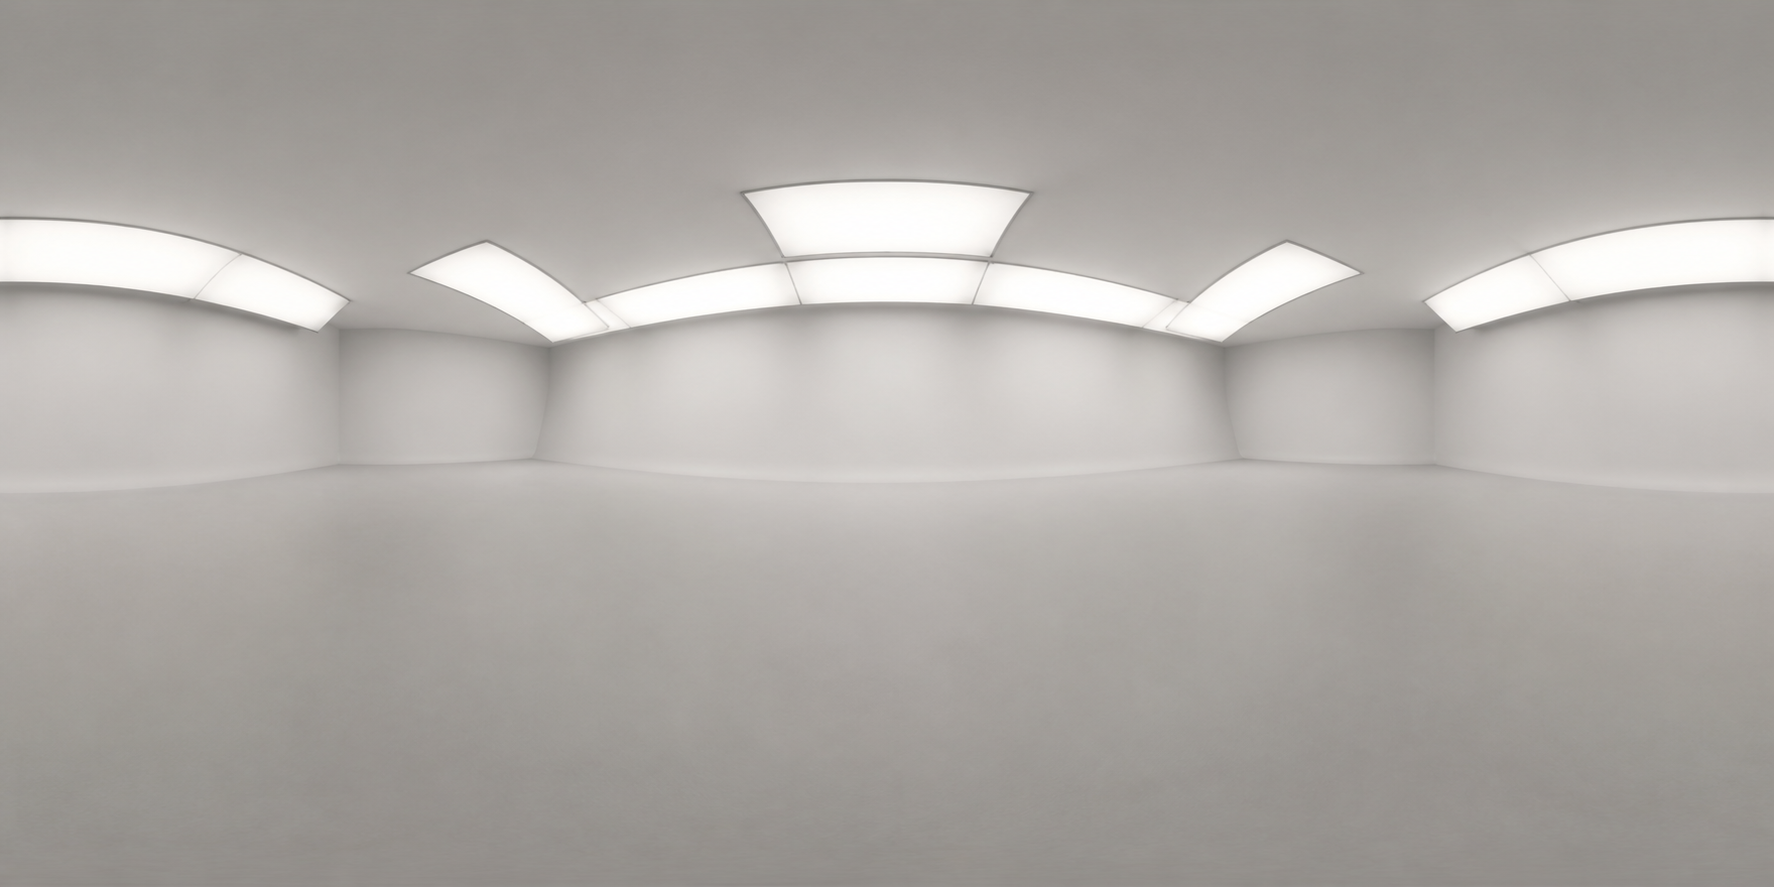
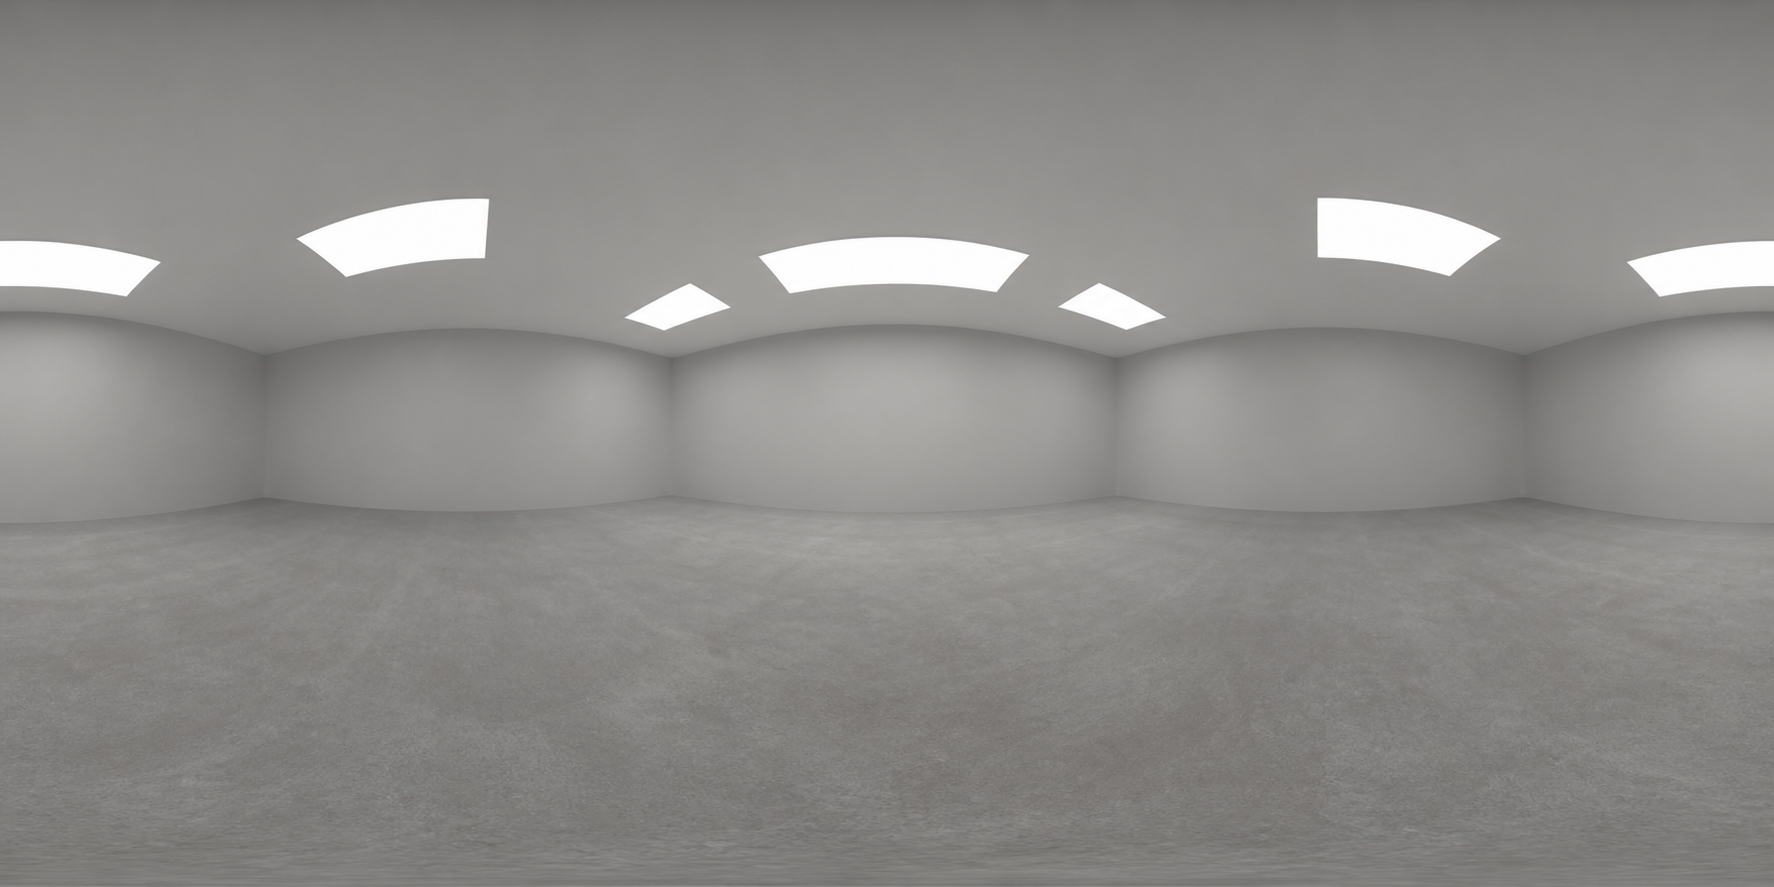
feat: project the studio panorama on a hemisphere dome in model previews
- reuse the drama scene dome pipeline (backdrop geometry, projected HDRI
  material, equirect-to-cubemap reprojection) through the blocking3d facade
  so the editor and thumbnails show the panorama as a visible half-sphere
  room around the model
- regenerate the bundled panorama as an enclosed indoor studio room via the
  scene-panorama pipeline; thumbnail cache key moves to v13

diff --git a/client/src/pages/models/modelLibrary3d/studioBackdrop.ts b/client/src/pages/models/modelLibrary3d/studioBackdrop.ts
@@ -1,0 +1,63 @@
+import * as pc from "playcanvas";
+
+import {
+  configureEnvironmentTexture,
+  createBackdropGeometry,
+  createProjectedHdriMaterial,
+  createVisibleHdriCubemap,
+  loadAsset,
+} from "@/pages/drama/comicDrama/components/blocking3d";
+
+/**
+ * 模型预览的摄影棚穹顶：与漫剧 3D 场景的 HDRI 背景穹顶同一套投射方案——
+ * 等距柱状全景图重投影成 cubemap，贴到半圆球内壁上（几何/材质复用
+ * blocking3d 的穹顶模块）。环境光仍由 studioLighting 的 env atlas 承担，
+ * 穹顶只负责"身处摄影棚房间"的可视背景。
+ */
+
+/** 场景全景图管线产出的室内工作室全景（编辑器穹顶与环境共用）。 */
+export const STUDIO_PANORAMA_URL = "/models/env/studio_panorama.png";
+
+export interface StudioBackdropHandle {
+  destroy: () => void;
+}
+
+export async function attachStudioBackdrop(
+  app: pc.AppBase,
+  options: { radius?: number; centerHeightRatio?: number; panoramaHorizonV?: number } = {},
+): Promise<StudioBackdropHandle | null> {
+  try {
+    const asset = await loadAsset(app, STUDIO_PANORAMA_URL, "texture");
+    const texture = asset.resource as pc.Texture;
+    configureEnvironmentTexture(texture, app);
+    const cubemap = createVisibleHdriCubemap(app, texture);
+    // 与漫剧一致：几何按 0.5 单位半径构建，实体再用 domeRadius 缩放。
+    const radius = options.radius ?? 30;
+    const centerHeight = radius * (options.centerHeightRatio ?? 0.12);
+    const mesh = pc.Mesh.fromGeometry(
+      app.graphicsDevice,
+      createBackdropGeometry(centerHeight, radius),
+    );
+    const material = createProjectedHdriMaterial(cubemap, {
+      projectionCenterHeight: centerHeight,
+      panoramaHorizonV: options.panoramaHorizonV ?? 0.56,
+    });
+    const meshInstance = new pc.MeshInstance(mesh, material);
+    const dome = new pc.Entity("studio-panorama-dome");
+    dome.addComponent("render", { meshInstances: [meshInstance], layers: [pc.LAYERID_WORLD] });
+    dome.setLocalScale(radius, radius, radius);
+    dome.setPosition(0, 0, 0);
+    app.root.addChild(dome);
+    return {
+      destroy() {
+        dome.destroy();
+        mesh.destroy();
+        material.destroy();
+        cubemap.destroy();
+        asset.unload();
+      },
+    };
+  } catch {
+    return null;
+  }
+}

diff --git a/client/src/pages/models/modelLibrary3d/modelViewerApp.ts b/client/src/pages/models/modelLibrary3d/modelViewerApp.ts
@@ -2,6 +2,7 @@ import * as pc from "playcanvas";
 
 import type { InspectorTransformValue } from "@/pages/drama/comicDrama/components/editor3d";
 import { applyModelMaterials, type ModelMaterialMap } from "./modelMaterials";
+import { attachStudioBackdrop } from "./studioBackdrop";
 import { setupStudioLighting, upgradeStudioEnvironment } from "./studioLighting";
 import {
   createBlocking3dTransformGizmo,
@@ -149,10 +150,12 @@ export async function createModelViewer(options: ModelViewerOptions): Promise<Mo
   // 任何提前销毁路径都要跳过/执行环境清理，避免碰到已销毁的 scene。
   let studioEnvDisposed = false;
   let studioEnvCleanup: (() => void) | null = null;
+  let studioBackdropCleanup: (() => void) | null = null;
   const takeStudioEnvCleanup = (): (() => void) | null => studioEnvCleanup;
   const disposeStudioEnv = () => {
     studioEnvDisposed = true;
     takeStudioEnvCleanup()?.();
+    studioBackdropCleanup?.();
   };
   void upgradeStudioEnvironment(app).then((cleanup) => {
     if (studioEnvDisposed) {
@@ -160,6 +163,15 @@ export async function createModelViewer(options: ModelViewerOptions): Promise<Mo
       return;
     }
     studioEnvCleanup = cleanup;
+  });
+  // 半圆球穹顶：与漫剧场景一致，把摄影棚全景投射在半球内壁作可视背景。
+  void attachStudioBackdrop(app, { radius: 30 }).then((handle) => {
+    if (!handle) return;
+    if (studioEnvDisposed) {
+      handle.destroy();
+      return;
+    }
+    studioBackdropCleanup = handle.destroy;
   });
 
   const ground = createPlane(

diff --git a/client/src/pages/models/modelLibrary3d/thumbnailStudio.ts b/client/src/pages/models/modelLibrary3d/thumbnailStudio.ts
@@ -4,6 +4,7 @@ import type { ModelLibraryEntry } from "@/config/modelLibrary";
 import { clamp, createMaterial, createPlane, DEFAULT_FOV, loadAsset, type ContainerResource } from "@/pages/drama/comicDrama/components/blocking3d";
 import { applyModelMaterials } from "./modelMaterials";
 import { computeSourceBounds } from "./modelViewerApp";
+import { attachStudioBackdrop } from "./studioBackdrop";
 import { setupStudioLighting, upgradeStudioEnvironment } from "./studioLighting";
 
 /**
@@ -15,7 +16,7 @@ import { setupStudioLighting, upgradeStudioEnvironment } from "./studioLighting"
 // 缩略图按卡片小图输出 JPEG：数百模型的缓存体量必须压进 localStorage 配额。
 const THUMBNAIL_SIZE = { width: 288, height: 216 } as const;
 const JPEG_QUALITY = 0.75;
-const STORAGE_KEY = "model-library:thumbnails:v12";
+const STORAGE_KEY = "model-library:thumbnails:v13";
 const IDLE_DESTROY_MS = 8000;
 
 type Listener = () => void;
@@ -154,6 +155,7 @@ async function createThumbnailStudio(): Promise<{
   setupStudioLighting(app, cameraEntity.camera!);
   // 缩略图必须等真 HDR 环境就绪再出图，否则卡片外观和编辑器不一致。
   await upgradeStudioEnvironment(app);
+  const backdrop = await attachStudioBackdrop(app, { radius: 30 });
 
   const ground = createPlane(
     app,
@@ -239,6 +241,7 @@ async function createThumbnailStudio(): Promise<{
     destroy() {
       if (destroyed) return;
       destroyed = true;
+      backdrop?.destroy();
       app.destroy();
     },
   }

diff --git a/client/src/pages/models/modelLibrary3d/studioLighting.ts b/client/src/pages/models/modelLibrary3d/studioLighting.ts
@@ -2,6 +2,8 @@ import * as pc from "playcanvas";
 
 import { loadAsset } from "@/pages/drama/comicDrama/components/blocking3d";
 
+import { STUDIO_PANORAMA_URL } from "./studioBackdrop";
+
 /**
  * 模型库的棚拍布光：主光 + 补光 + 轮廓光 + 环境反射（真实 HDR，程序化兜底）
  * + ACES 色调映射。编辑器与缩略图工坊共用，保证卡片预览和 3D 编辑里看到的
@@ -10,8 +12,6 @@ import { loadAsset } from "@/pages/drama/comicDrama/components/blocking3d";
 
 /** 内置中性棚拍 HDRI（Poly Haven studio_small_03，CC0）。等距柱状 RGBE。 */
 const STUDIO_ENV_URL = "/models/env/studio_small_03_1k.hdr";
-/** 场景全景图管线产出的摄影棚全景（AI 生成等距柱状图），作为首选环境。 */
-const STUDIO_PANORAMA_URL = "/models/env/studio_panorama.png";
 
 /**
  * 程序化棚拍环境：竖向渐变的等距柱状图（顶部冷白天光、中性地面），运行时

diff --git a/client/src/pages/drama/comicDrama/components/blocking3d/index.ts b/client/src/pages/drama/comicDrama/components/blocking3d/index.ts
@@ -15,3 +15,10 @@ export {
   DEFAULT_FOV,
   type ContainerResource,
 } from "./blocking3dViewerCore";
+export {
+  createBackdropGeometry,
+  configureEnvironmentTexture,
+  createVisibleHdriCubemap,
+} from "./blocking3dViewerCore";
+export { createProjectedHdriMaterial } from "./blocking3dEnvironmentProjection";
+export type { ProjectedHdriMaterialSettings } from "./blocking3dEnvironmentProjection";

diff --git a/docs/wiki/product/model-library.md b/docs/wiki/product/model-library.md
@@ -22,7 +22,8 @@
 - **环境反射（IBL）是质感前提**：`studioLighting.ts` 运行时生成程序化棚拍环境（竖向渐变等距柱状图 → `EnvLighting.generatePrefilteredAtlas`）挂到 `scene.envAtlas`。没有它：玻璃/金属要么发白发平、要么金属整面发黑。实拍确认烛台"玻璃罩"其实是源资产的不透明磨砂材质，观感成立靠的就是环境反射。
 - **RMA 只取 G 通道粗糙度（全库审计后的硬规则）**：按资产 RMA（排除共享 Fill_01 占位）套 `glossMap`+`glossMapChannel:"g"`+`glossInvert`。**B/R 通道经逐张贴图审计确认不可用**（2026-08-29）：这包 Cine57 资产的 ORM 语义与 glTF 约定不符——地毯/岩石/布艺等纯电介质的 B（按约定=金属度）高达 0.66-0.98，砖炉金属板反而 0.01；R（按约定=AO）在平整表面也压到 0.36，当 AO 会把物件整体压暗。金属观感由真 HDR 环境 + 漫反射色承担；接入校准过的 PBR 数据前不要开 `metalnessMap`/`aoMap`。
 - **引擎贴图通道默认值坑**：PlayCanvas StandardMaterial 的 `metalnessMap`/`glossMap` 默认采样通道与 glTF 约定不一致（glTF 加载器是自己显式设 `metalnessMapChannel="b"`、`glossMapChannel="g"` 的）。手动接 ORM/未校准贴图必须把 `glossMapChannel`/`metalnessMapChannel`/`aoMapChannel` 全部显式写死，否则金属度读错通道会把非金属整块渲染成镜面金属。
-- **棚拍布光是共享模块**：三灯 + 环境反射（真 HDR）+ ACES 色调映射，编辑器与缩略图工坊共用。真环境走 `upgradeStudioEnvironment()`，环境源按优先级回退：① `client/public/models/env/studio_panorama.png`——**场景全景图管线产出的摄影棚全景**（复用 `buildScenePanoramaPrompt` 契约 + `generateImagesByProvider` + `IMAGE_SPECS.scenePanorama`（2048x1024），一次性生成脚本落在生成时的 server 目录下，产物入库）；② 内置 HDRI（Poly Haven `studio_small_03_1k`，CC0）；③ 程序化渐变。LDR 等距柱状图与 HDR 同一条 `EnvLighting.generateLightingSource` → `generateAtlas` → `scene.envAtlas` 管线；三灯强度按真环境调低（1.2/0.35/0.55）。接了真环境也不要把 `ambientLight` 拉高——atlas 已接管环境光贡献。注意 PlayCanvas 2.21 的 `toneMapping` 挂在 **CameraComponent** 上而非 Scene；粗糙度体系叫 **gloss**（`glossMap`/`glossInvert`，G 通道），没有 `roughnessMap`。
+- **棚拍布光是共享模块**：三灯 + 环境反射（真 HDR）+ ACES 色调映射，编辑器与缩略图工坊共用。真环境走 `upgradeStudioEnvironment()`，环境源按优先级回退：① `client/public/models/env/studio_panorama.png`——**场景全景图管线产出的摄影棚全景**（复用 `buildScenePanoramaPrompt` 契约 + `generateImagesByProvider` + `IMAGE_SPECS.scenePanorama`（2048x1024），一次性生成脚本落在生成时的 server 目录下，产物入库）；② 内置 HDRI（Poly Haven `studio_small_03_1k`，CC0）；③ 程序化渐变。LDR 等距柱状图与 HDR 同一条 `EnvLighting.generateLightingSource` → `generateAtlas` → `scene.envAtlas` 管线；三灯强度按真环境调低（1.2/0.35/0.55）。接了真环境也不要把 `ambientLight` 拉高——atlas 已接管环境光贡献。
+  **可视背景用半圆球穹顶**（`studioBackdrop.ts` 的 `attachStudioBackdrop`）：全景图重投影成 cubemap 贴到半圆球内壁（几何/材质复用 blocking3d 的 `createBackdropGeometry`/`createProjectedHdriMaterial`，几何 0.5 单位半径 + 实体按 domeRadius 缩放），与漫剧场景同款；编辑器 radius 30、panoramaHorizonV 0.56（对齐生成全景的地平线位置）。env atlas 只管光照，穹顶只管可见背景，二者并存。注意 PlayCanvas 2.21 的 `toneMapping` 挂在 **CameraComponent** 上而非 Scene；粗糙度体系叫 **gloss**（`glossMap`/`glossInvert`，G 通道），没有 `roughnessMap`。
 - **贴图降采样**：baseColor 桶按 2048 上限 JPEG（质量 82）——3D 编辑器支持近距离观察，1024 会顶到明显的马赛克像素；法线/RMA 桶 1024 强制 JPEG；源 PNG 有真实镂空 alpha（YMIN < 254）才保留 PNG。本机新版 ffmpeg 单图输出必须加 `-update 1`（放在输出文件前），否则报「does not contain an image sequence pattern」。
 - **模型选择**：优先 LP 变体 + 轻量优先；单件超 12MB 的源资产不进库。
 - **动画库沿用静态目录模式**：动画清单是 `client/src/config/animationLibrary.ts`，GLB 放 `client/public/anims/`。一个 GLB 内含 UAL2 角色与全部动作片段，目录条目用 `clipName` 指向其中的动画；后续批量入库优先往同一个 GLB 追加，而不是一片一段一段文件（模型体积远大于动画体积）。

diff --git a/README.md b/README.md
@@ -149,6 +149,7 @@
 
 
 ### 2026-08-29
+- 模型 3D 编辑改用半圆球穹顶投射室内工作室全景：与漫剧 3D 场景相同的穹顶方案，编辑和缩略图里模型身后是完整的室内工作室墙面与天花柔光，环境更真实。
 - 模型预览的棚拍环境换上 AI 生成的摄影棚全景图：沿用场景全景图的生成流程产出中性摄影棚 360° 全景，编辑器与缩略图的环境反射来自真实感摄影空间，背景直接呈现摄影棚弧形墙与顶部柔光。
 - 模型预览引入真实 HDR 棚拍环境：3D 编辑与缩略图的环境反射换用内置中性摄影棚 HDRI，金属、釉面、漆面的高光有了真实的空间倒影，模型光影更立体；布光同步重新调配。
 - 模型配色修正：办公桌、宫灯、瓷瓶、床品、婴儿床等模型显示源资产的真实颜色——宫灯恢复红色灯身，桌面、床架恢复木纹本色，瓷瓶显出釉色与纹样，过暗的床品、沙发恢复真实的布面与木色。

diff --git a/docs/releases/release-notes.md b/docs/releases/release-notes.md
@@ -6,6 +6,7 @@
 
 
 ### 2026-08-29
+- 模型 3D 编辑改用半圆球穹顶投射室内工作室全景：与漫剧 3D 场景相同的穹顶方案，编辑和缩略图里模型身后是完整的室内工作室墙面与天花柔光，环境更真实。
 - 模型预览的棚拍环境换上 AI 生成的摄影棚全景图：沿用场景全景图的生成流程产出中性摄影棚 360° 全景，编辑器与缩略图的环境反射来自真实感摄影空间，背景直接呈现摄影棚弧形墙与顶部柔光。
 - 模型预览引入真实 HDR 棚拍环境：3D 编辑与缩略图的环境反射换用内置中性摄影棚 HDRI，金属、釉面、漆面的高光有了真实的空间倒影，模型光影更立体；布光同步重新调配。
 - 模型配色修正：办公桌、宫灯、瓷瓶、床品、婴儿床等模型显示源资产的真实颜色——宫灯恢复红色灯身，桌面、床架恢复木纹本色，瓷瓶显出釉色与纹样，过暗的床品、沙发恢复真实的布面与木色。
